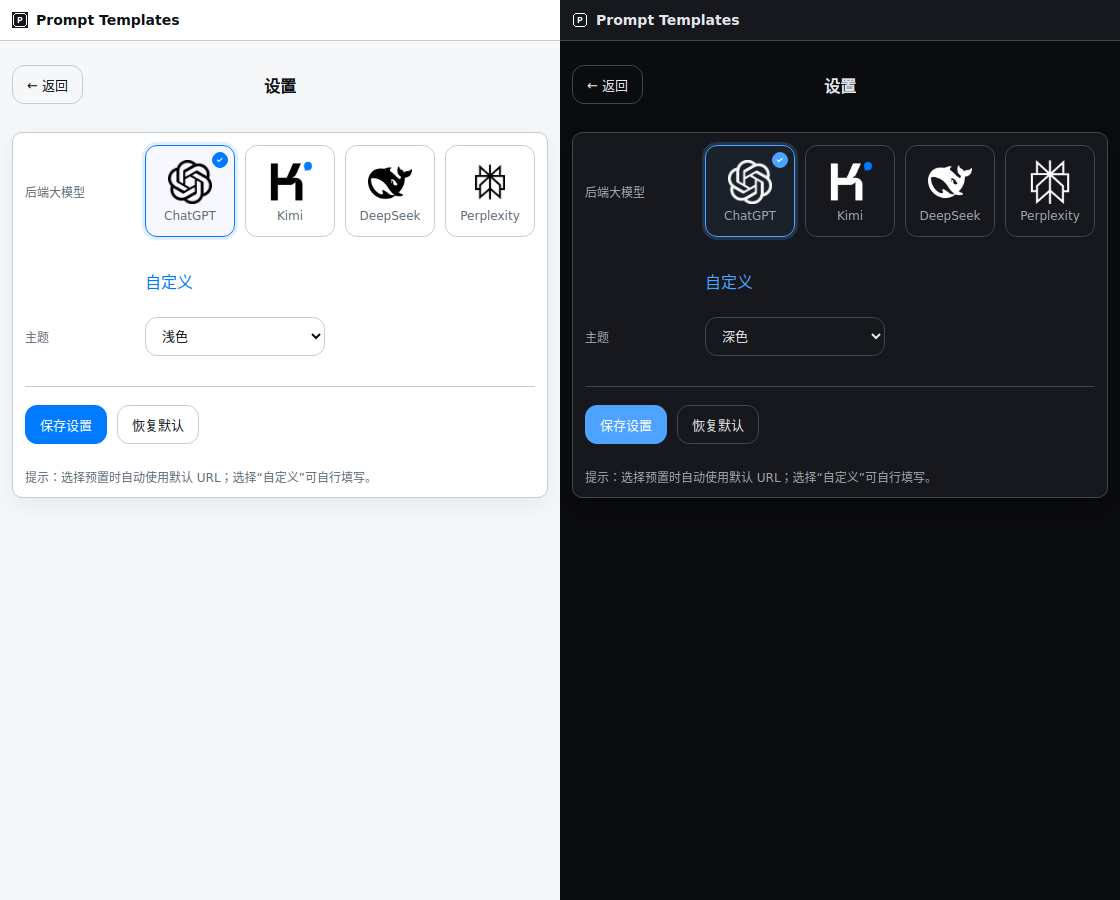
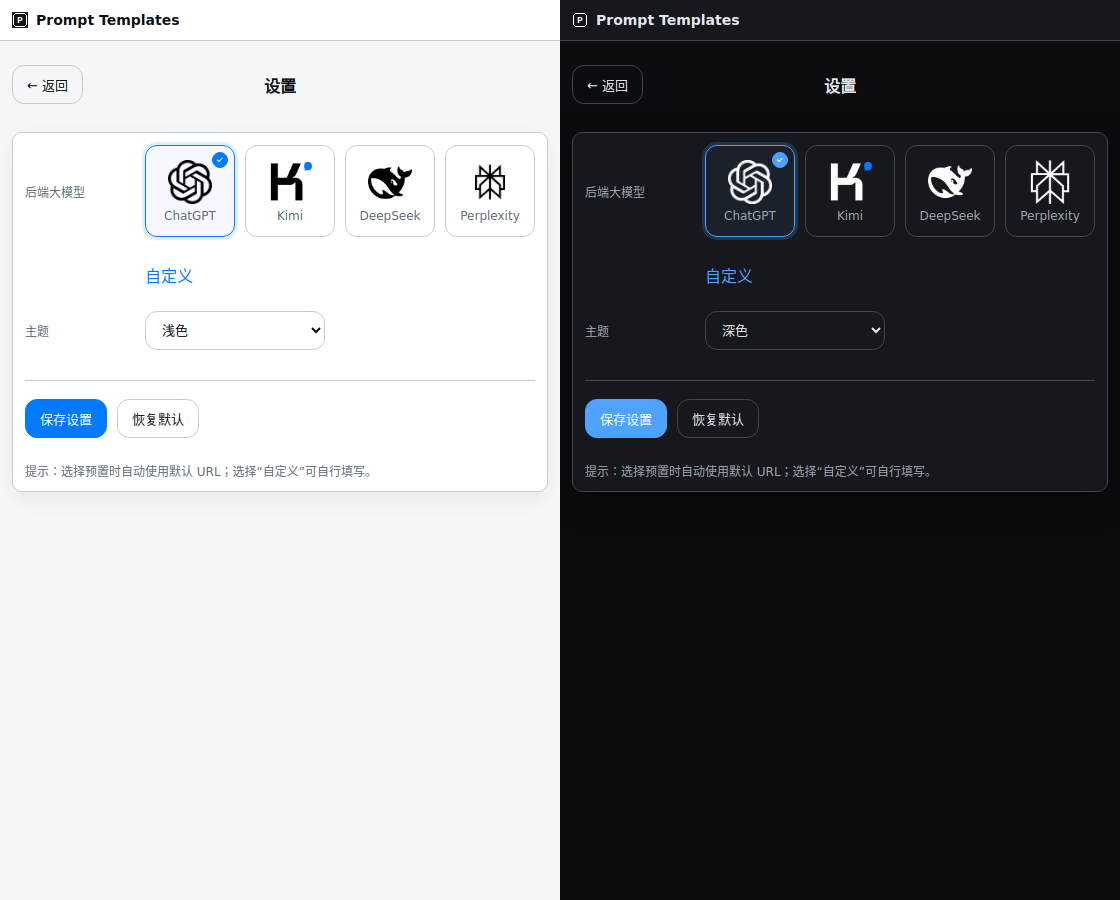
Adjust provider actions margin for better visual spacing

diff --git a/edge-prompt-templates/popup.html b/edge-prompt-templates/popup.html
@@ -120,7 +120,7 @@ input[type="checkbox"]:focus{outline:none;box-shadow:0 0 0 3px var(--accent-soft
 .provider-card .tick{position:absolute;top:6px;right:6px;width:16px;height:16px;border-radius:50%;border:1px solid var(--accent);background:var(--accent);display:none;align-items:center;justify-content:center}
 .provider-card .tick svg{width:10px;height:10px;display:block}
 .provider-card.active .tick{display:flex}
-.provider-actions{margin-top:8px;display:flex;justify-content:flex-start}
+.provider-actions{margin-top:2px;display:flex;justify-content:flex-start}
 .custom-tick{display:none;margin-left:6px;width:16px;height:16px;border-radius:50%;border:1px solid var(--accent);background:var(--accent);align-items:center;justify-content:center}
 .custom-tick svg{width:10px;height:10px;display:block}
   </style>

diff --git a/edge-prompt-templates/panel.html b/edge-prompt-templates/panel.html
@@ -118,7 +118,7 @@ input[type="checkbox"]:focus{outline:none;box-shadow:0 0 0 3px var(--accent-soft
 .provider-card .tick{position:absolute;top:6px;right:6px;width:16px;height:16px;border-radius:50%;border:1px solid var(--accent);background:var(--accent);display:none;align-items:center;justify-content:center}
 .provider-card .tick svg{width:10px;height:10px;display:block}
 .provider-card.active .tick{display:flex}
-.provider-actions{margin-top:8px;display:flex;justify-content:flex-start}
+.provider-actions{margin-top:2px;display:flex;justify-content:flex-start}
 .custom-tick{display:none;margin-left:6px;width:16px;height:16px;border-radius:50%;border:1px solid var(--accent);background:var(--accent);align-items:center;justify-content:center}
 .custom-tick svg{width:10px;height:10px;display:block}
 </style>
